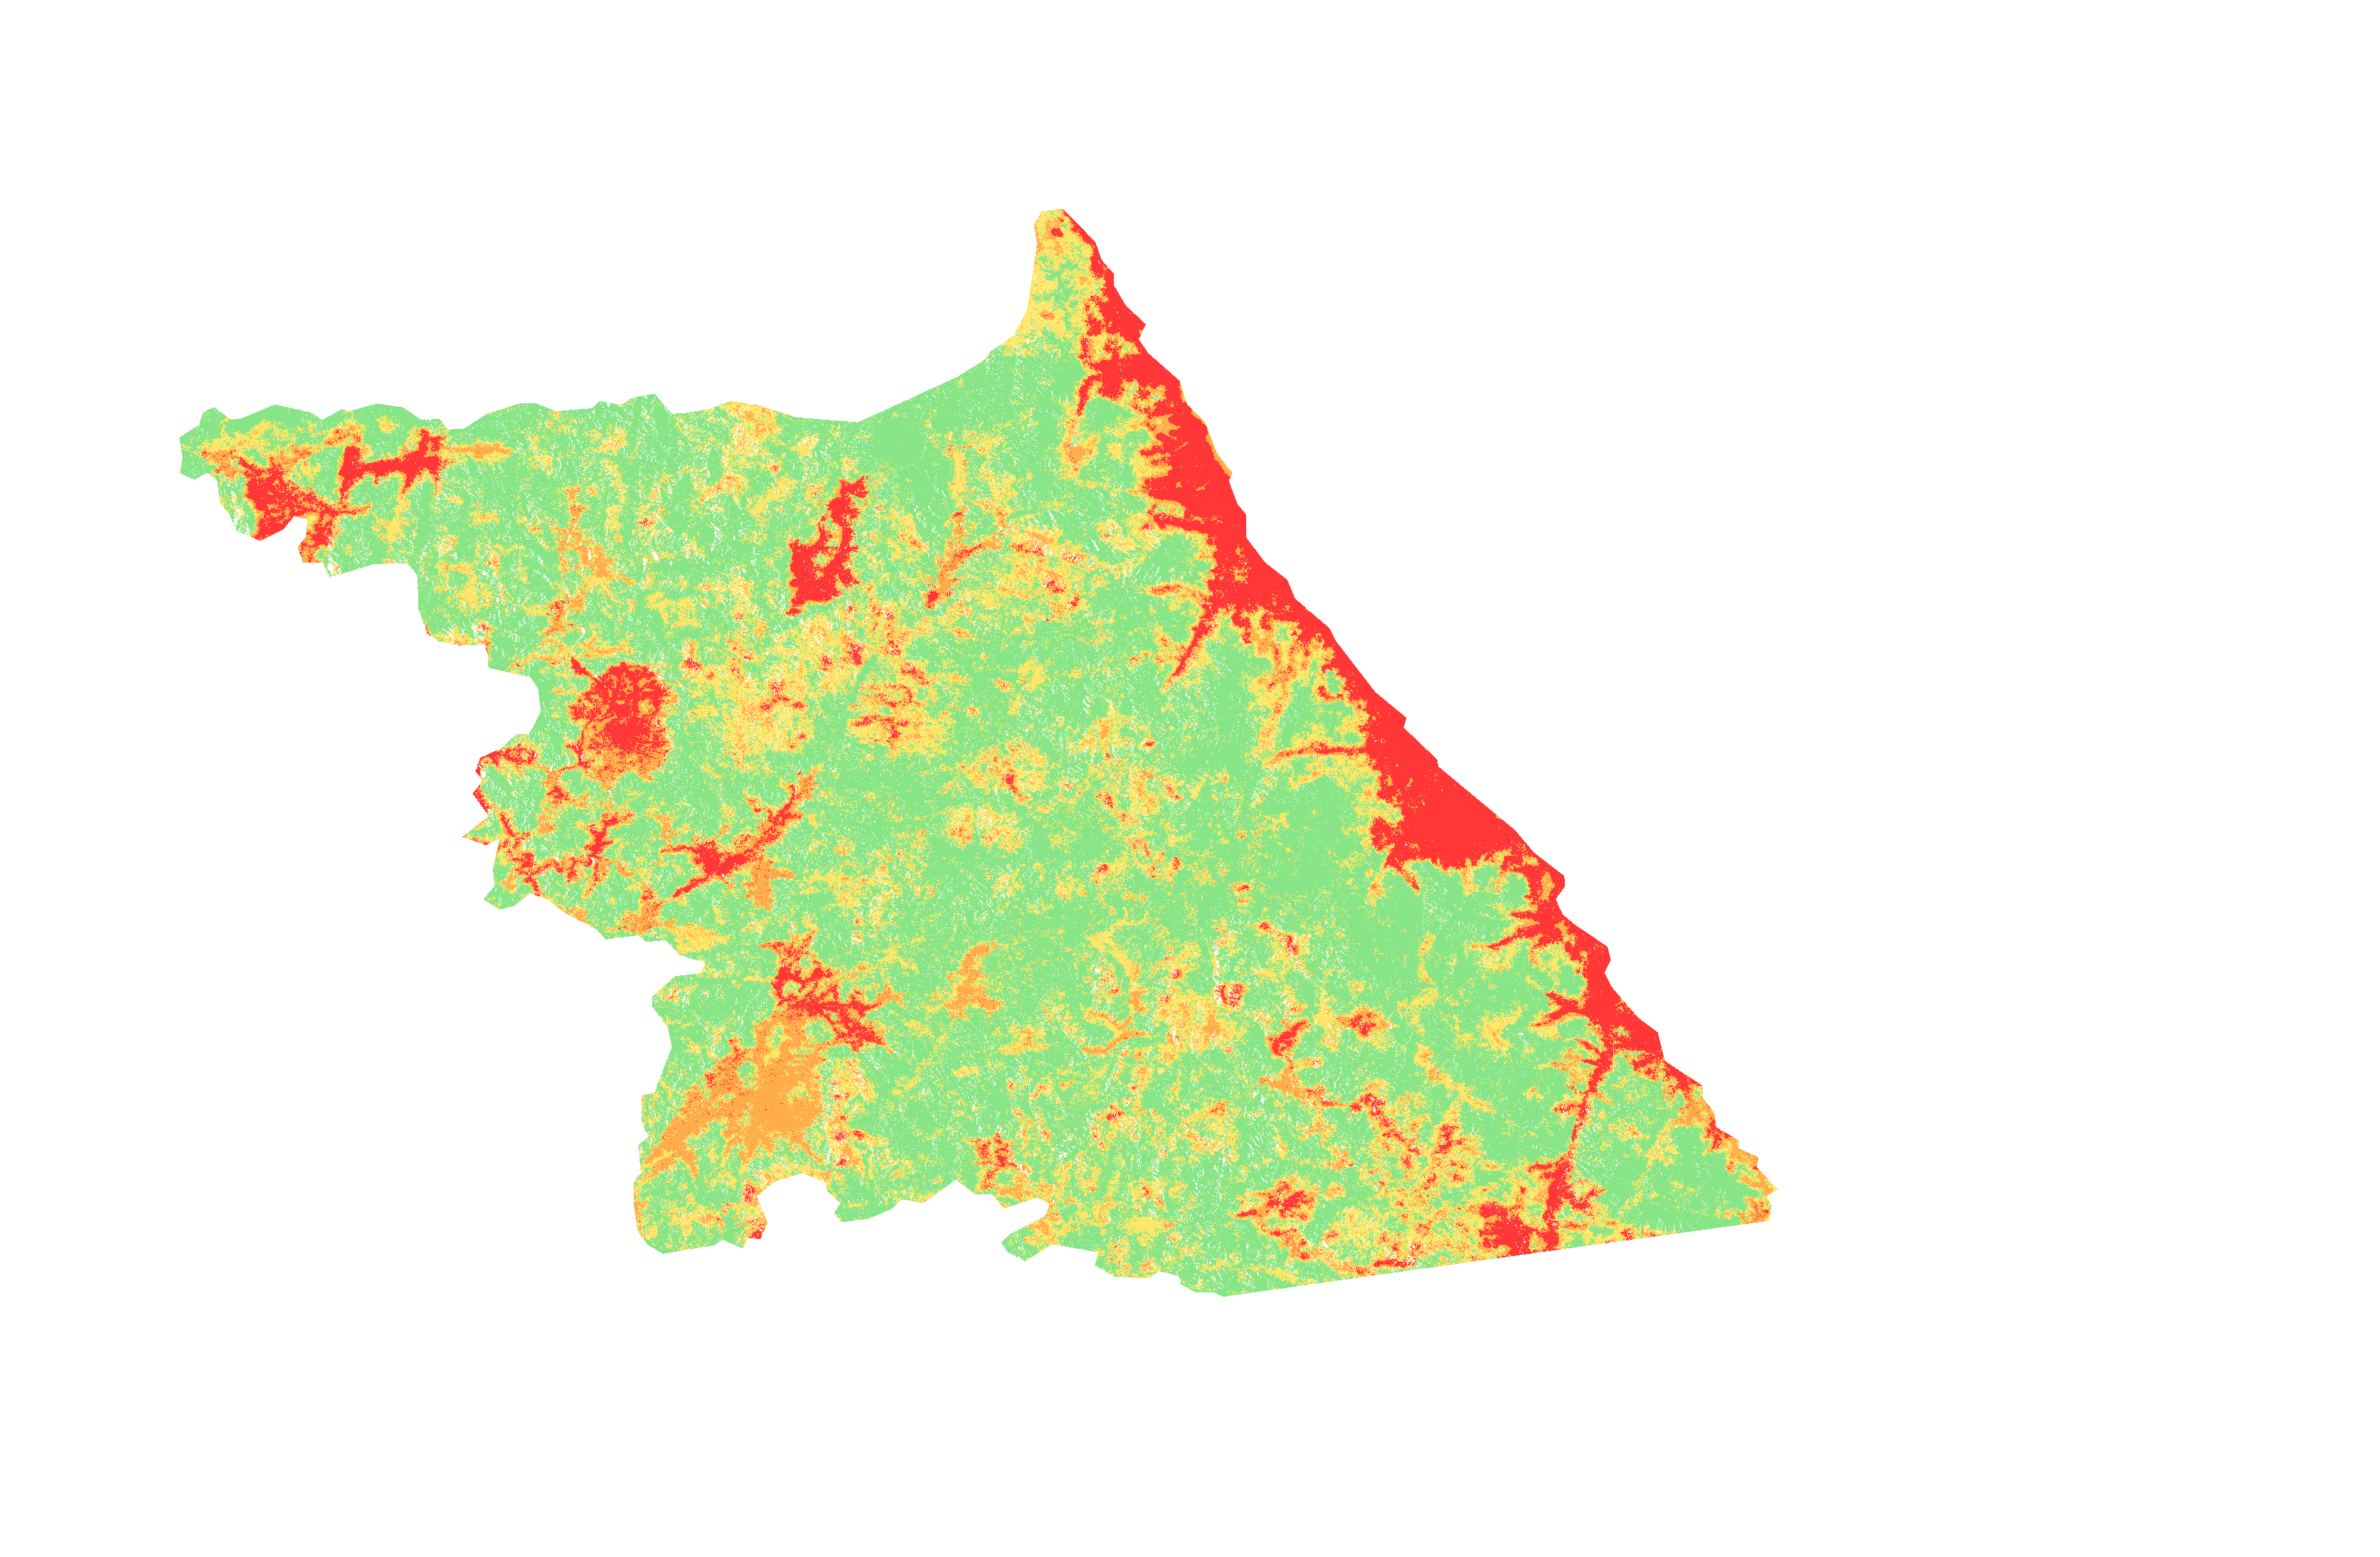
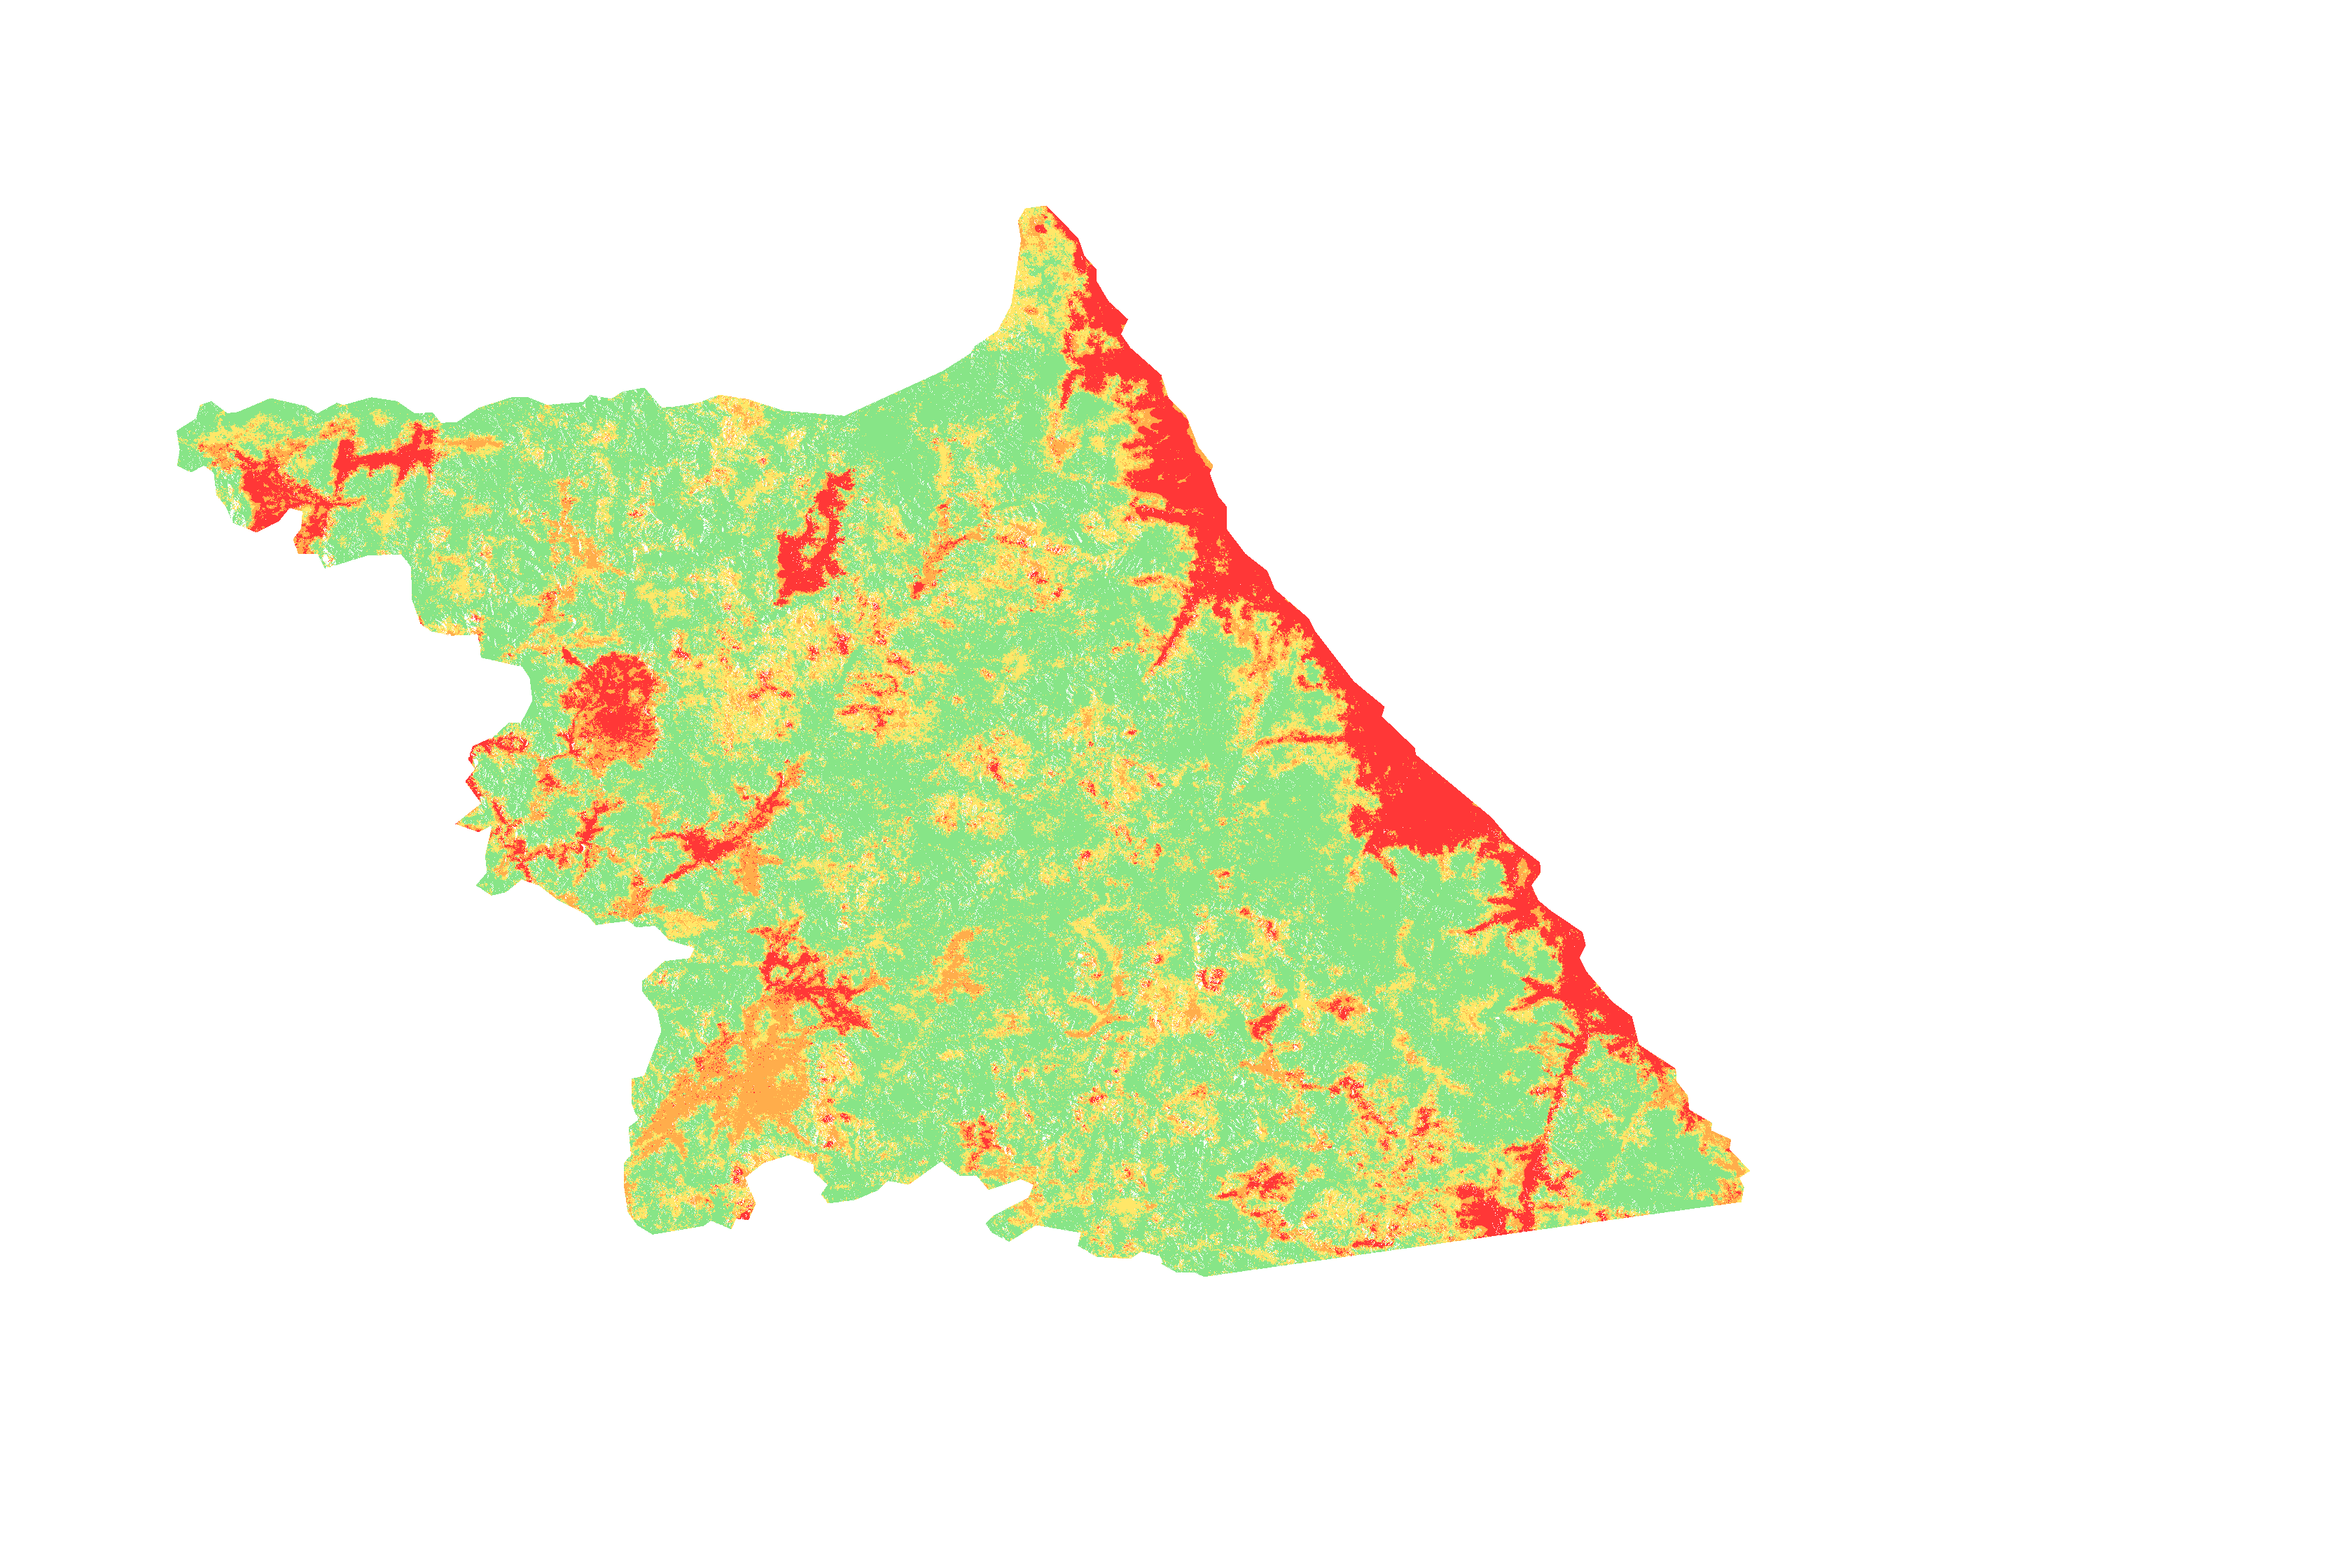
fix: GSI 히트맵 남쪽 경계 확장 + 범례 안정 항목 추가
- 히트맵 LAT_MIN 0.05° 확장 (36.716→36.666, 영월·태백·삼척 하단 잘림 수정)
- ImageOverlay bounds 이미지 실제 범위로 동기화
- 픽셀 히트맵 범례: '안정 또는 데이터 없음' → '🟢 안정 (상위 60%)' + '□ 데이터 없음' 분리

Changed region(s): [[0.0622, 0.1243, 0.746, 0.8387]]

diff --git a/src/App.jsx b/src/App.jsx
@@ -274,7 +274,7 @@ function App() {
           {showHeatmap && (
             <ImageOverlay
               url="/gsi_heatmap.png"
-              bounds={[[36.715861, 126.860542], [38.903812, 130.205295]]}
+              bounds={[[36.666, 126.860], [38.904, 130.205]]}
               opacity={0.6}
               zIndex={400}
             />
@@ -348,7 +348,8 @@ function App() {
             <div>🔴 위험 (하위 5%)</div>
             <div>🟠 경계 (하위 5~15%)</div>
             <div>🟡 주의 (하위 15~40%)</div>
-            <div style={{ color: '#9ca3af' }}>□ 안정 또는 데이터 없음</div>
+            <div>🟢 안정 (상위 60%)</div>
+            <div style={{ color: '#9ca3af' }}>□ 데이터 없음</div>
             <div style={{ fontSize: '10px', color: '#9ca3af', marginTop: '6px', borderTop: '1px solid #e5e7eb', paddingTop: '6px' }}>Sentinel-1 SAR 250만 픽셀 기반</div>
           </div>
         )}